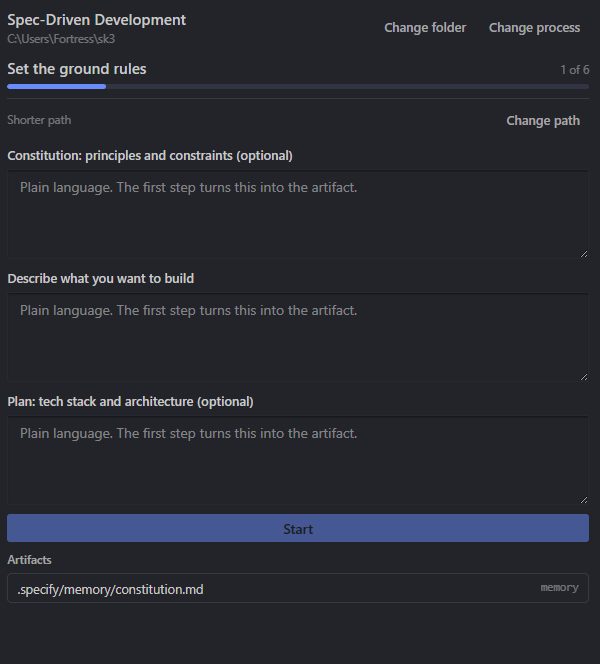
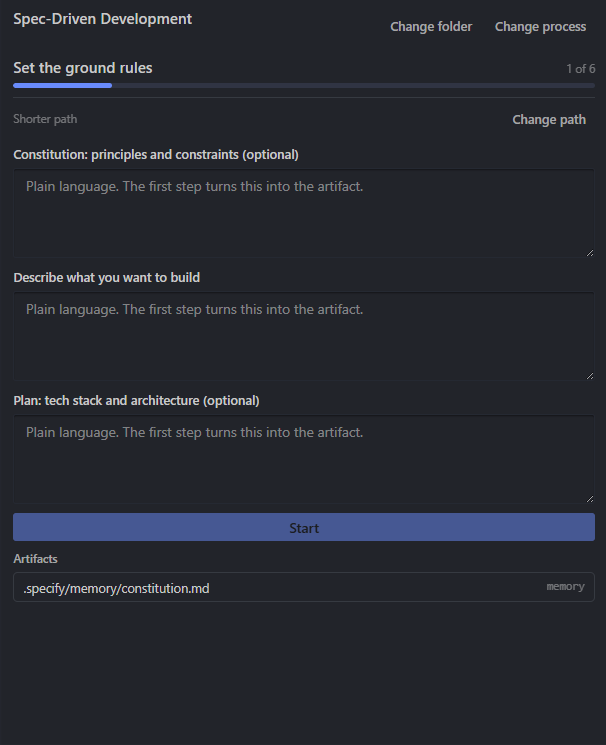
Screenshots Update

diff --git a/README.md b/README.md
@@ -40,19 +40,17 @@ Two things make it more than a launcher. The workflow stops at each review gate 
 
 Spec Kit Plugin - Main Pane:
 
-![Spec Driven Development, Bug Fixing, Idea Assessment](docs/assets/speckit-ss1.png?v=3)
+<img src="docs/assets/speckit-ss1.png?v=3" alt="Spec Driven Development, Bug Fixing, Idea Assessment" width="600">
 
 Spec Driven Development (Short/Full Paths):
 
 | Spec Driven Development (Short/Full Paths) | Spec Driven Development - Short |
 | --- | --- |
-| ![Spec Driven Development - Main](docs/assets/speckit-ss2.png) | ![Pull request detail view](docs/assets/speckit-ss3.png?v=3) |
+| <img src="docs/assets/speckit-ss2.png" alt="Spec Driven Development - Main" width="300"> | <img src="docs/assets/speckit-ss3.png?v=3" alt="Pull request detail view" width="300"> |
 
-
-| Bug Fixing | Issues |
+| Bug Fixing | Idea Assessment |
 | --- | --- |
-| ![Bug Fixing](docs/assets/speckit-ss5.png) | ![Idea Assessment](docs/assets/speckit-ss6.png) |
-
+| <img src="docs/assets/speckit-ss5.png" alt="Bug Fixing" width="300"> | <img src="docs/assets/speckit-ss6.png" alt="Idea Assessment" width="300"> |
 
 <!--
   New in this fork. Upload these files to docs/ and delete the comment markers.
